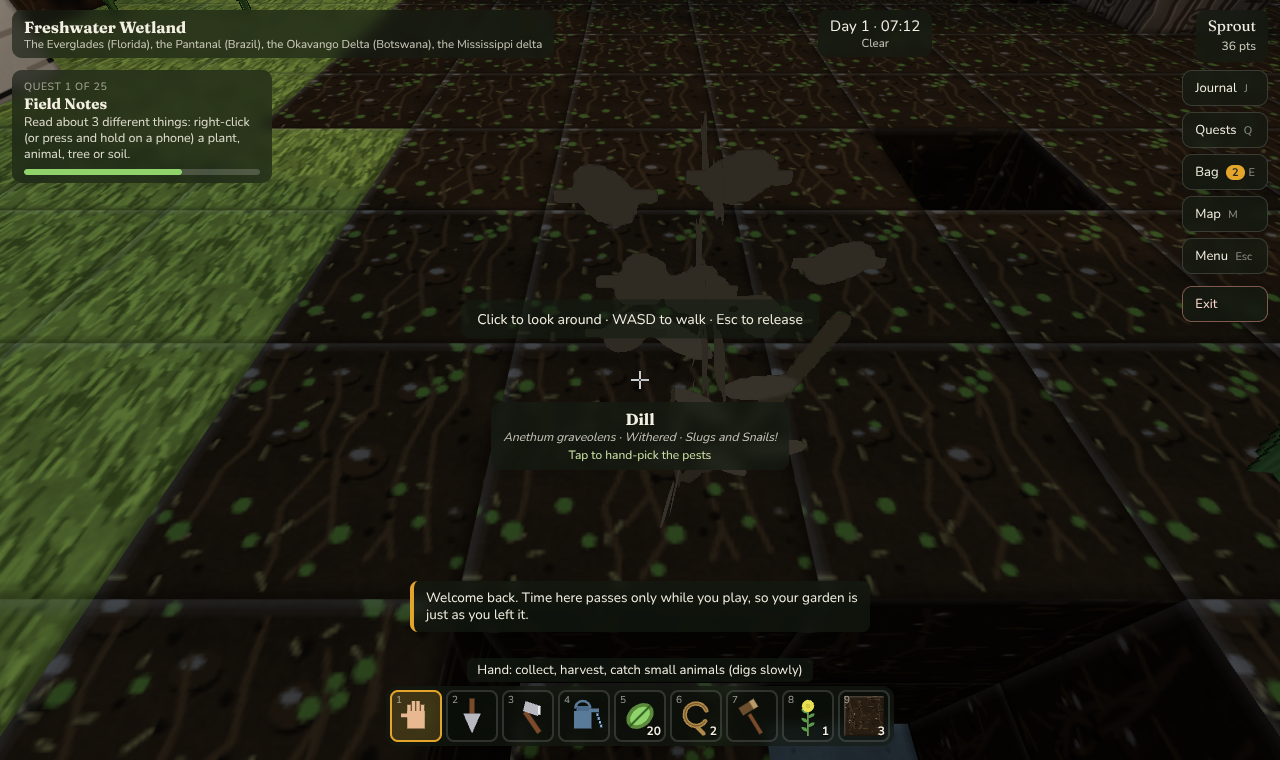
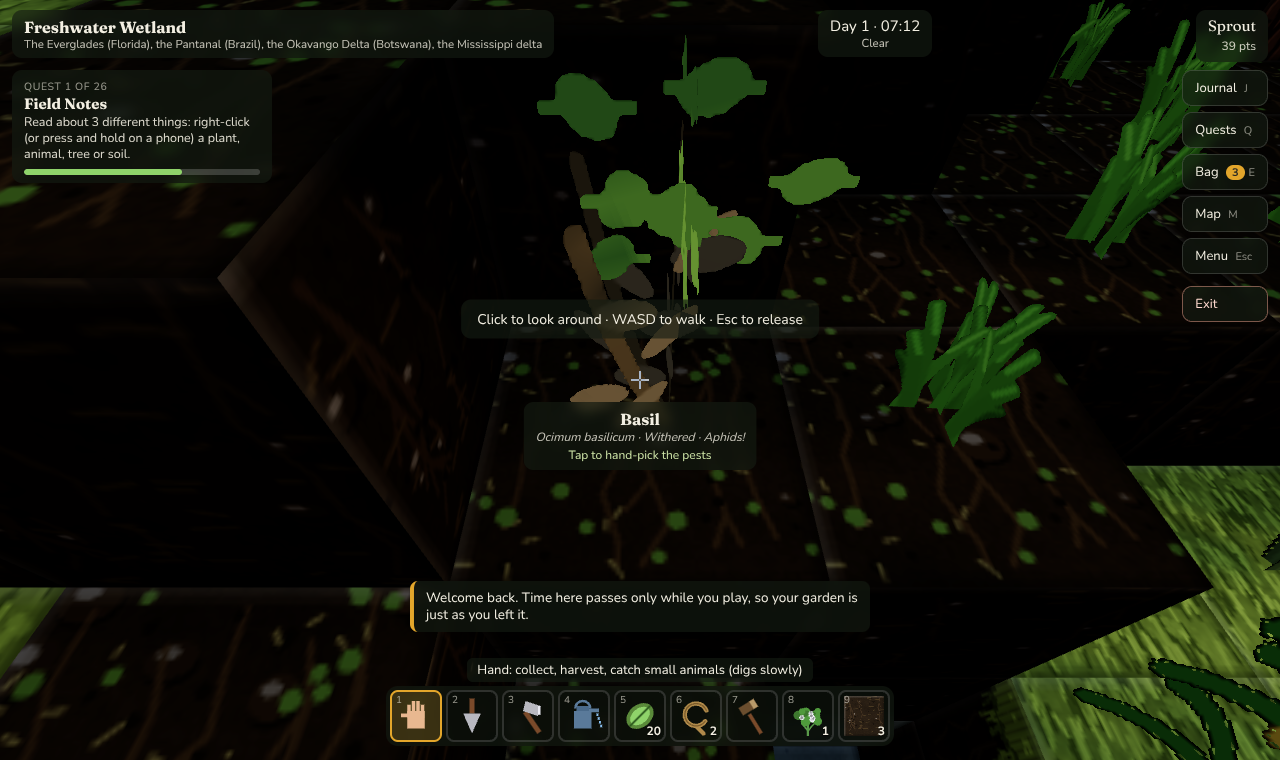
Botany World: ocean wrap-around, living vegetation and atmosphere
- Renamed the game to Botany World (title, start screen, menu, README)
  with the new banner art
- The ocean wraps around: sail or swim past any edge of the map and you
  arrive on the far side; open sea stretches to the horizon beyond the
  edges; new "Around the World" quest on how seeds cross oceans
- 3D grass tufts on about half of all grass tops, coloured by region;
  plants are three crossed quads with their own yaw and size; plants
  and tufts sway in the wind (shadows sway with them)
- Per-block colour variation on grass tops and leaves
- Water surface normals ripple for sun glints; sun glow sprite; fluffy
  multi-part clouds merged into one mesh; filmic tone mapping with the
  sky dome tone mapped to match

Claude-Session: https://claude.ai/code/session_019QgsiEiaSj21K5LUM6uzhx

diff --git a/js/main.js b/js/main.js
@@ -4,7 +4,7 @@ BC.Game = class Game {
   constructor() {
     this.canvas = document.getElementById('gl');
     this.renderer = new THREE.WebGLRenderer({ canvas: this.canvas, antialias: (window.devicePixelRatio || 1) < 1.5, powerPreference: 'high-performance' });
-    this.renderer.outputColorSpace = THREE.SRGBColorSpace;
+    this.renderer.outputColorSpace = THREE.SRGBColorSpace; this.renderer.toneMapping = THREE.ACESFilmicToneMapping; this.renderer.toneMappingExposure = 1.12;
     this.scene = new THREE.Scene(); this.camera = new THREE.PerspectiveCamera(72, 1, 0.1, 260);
     this.player = new BC.Player(this); this.ui = new BC.UI(this); this.animals = new BC.Animals(this); this.npcs = new BC.NPCs(this); this.boats = new BC.Boats(this); this.net = new BC.Net(this); this.hires = []; this.fishing = null;
     this.chunks = new Map(); this.time = { t: 0, day: 1, dayFrac: 0.3 }; this.weather = { raining: false, timer: 90 };
@@ -26,24 +26,28 @@ BC.Game = class Game {
     const atlas = BC.Atlas.build(); this.atlas = atlas.texture; try { this.atlas.anisotropy = Math.min(8, this.renderer.capabilities.getMaxAnisotropy()); } catch (e) { }
     this.matSolid = new THREE.MeshLambertMaterial({ map: this.atlas, vertexColors: true });
     this.matPlant = new THREE.MeshLambertMaterial({ map: this.atlas, vertexColors: true, alphaTest: 0.5, side: THREE.DoubleSide });
+    // wind: the top vertices of plants and grass tufts lean with slow overlapping waves
+    const wind = mat => { mat.onBeforeCompile = sh => { sh.uniforms.uTime = { value: 0 }; mat.userData.shader = sh; sh.vertexShader = sh.vertexShader.replace('#include <common>', '#include <common>\nattribute float sway; uniform float uTime;').replace('#include <begin_vertex>', '#include <begin_vertex>\n{ float w = sway * (0.75 + 0.25 * sin(uTime * 0.7 + position.z * 0.05)); transformed.x += w * (sin(uTime * 1.7 + position.x * 0.8 + position.z * 0.6) * 0.07 + sin(uTime * 3.1 + position.z * 1.3) * 0.025); transformed.z += w * cos(uTime * 1.3 + position.x * 0.5 + position.z * 0.9) * 0.05; }'); }; };
+    wind(this.matPlant);
     this.waterTex = BC.Atlas.waterTexture(); this.matWater = new THREE.MeshPhongMaterial({ map: this.waterTex, vertexColors: true, transparent: true, opacity: 0.66, depthWrite: false, specular: new THREE.Color(0x9fc3e6), shininess: 120 });
     this.matWater.onBeforeCompile = sh => { sh.uniforms.uTime = { value: 0 }; sh.uniforms.uSky = { value: new THREE.Color(0x8fc4ea) }; this.matWater.userData.shader = sh;
-      sh.vertexShader = sh.vertexShader.replace('#include <common>', '#include <common>\nattribute vec2 flow; uniform float uTime; varying vec2 vFlow;').replace('#include <uv_vertex>', '#include <uv_vertex>\nvMapUv += flow * uTime * 0.35; vFlow = flow;').replace('#include <begin_vertex>', '#include <begin_vertex>\ntransformed.y += sin(position.x * 1.9 + uTime * 2.2 + position.z * 1.3) * 0.035 * (1.0 + length(flow) * 2.0);');
-      sh.fragmentShader = sh.fragmentShader.replace('#include <common>', '#include <common>\nvarying vec2 vFlow; uniform vec3 uSky;').replace('#include <dithering_fragment>', '#include <dithering_fragment>\ngl_FragColor.rgb += vec3(0.08, 0.1, 0.1) * min(1.0, length(vFlow) * 1.2);\n{ vec3 vd = normalize(vViewPosition); float fr = pow(1.0 - clamp(dot(vd, normalize(vNormal)), 0.0, 1.0), 2.5); gl_FragColor.rgb = mix(gl_FragColor.rgb, uSky, fr * 0.6); gl_FragColor.a = mix(gl_FragColor.a, 0.97, fr * 0.85); }'); };
+      sh.vertexShader = sh.vertexShader.replace('#include <common>', '#include <common>\nattribute vec2 flow; uniform float uTime; varying vec2 vFlow; varying vec3 vWp;').replace('#include <uv_vertex>', '#include <uv_vertex>\nvMapUv += flow * uTime * 0.35; vFlow = flow;').replace('#include <begin_vertex>', '#include <begin_vertex>\ntransformed.y += sin(position.x * 1.9 + uTime * 2.2 + position.z * 1.3) * 0.035 * (1.0 + length(flow) * 2.0); vWp = (modelMatrix * vec4(transformed, 1.0)).xyz;');
+      sh.fragmentShader = sh.fragmentShader.replace('#include <common>', '#include <common>\nvarying vec2 vFlow; varying vec3 vWp; uniform vec3 uSky; uniform float uTime;').replace('#include <normal_fragment_begin>', '#include <normal_fragment_begin>\nnormal = normalize(normal + vec3(sin(vWp.x * 2.3 + uTime * 1.6) * 0.07 + sin(vWp.z * 3.1 - uTime * 1.1) * 0.05, 0.0, cos(vWp.z * 2.1 + uTime * 1.3) * 0.07 + cos(vWp.x * 2.9 + uTime * 0.9) * 0.05));').replace('#include <dithering_fragment>', '#include <dithering_fragment>\ngl_FragColor.rgb += vec3(0.08, 0.1, 0.1) * min(1.0, length(vFlow) * 1.2);\n{ vec3 vd = normalize(vViewPosition); float fr = pow(1.0 - clamp(dot(vd, normalize(vNormal)), 0.0, 1.0), 2.5); gl_FragColor.rgb = mix(gl_FragColor.rgb, uSky, fr * 0.6); gl_FragColor.a = mix(gl_FragColor.a, 0.97, fr * 0.85); }'); };
     this.hemi = new THREE.HemisphereLight(0xc6dcff, 0x7a6244, 1.05); this.scene.add(this.hemi);
     this.sun = new THREE.DirectionalLight(0xffe6c2, 1.35); this.scene.add(this.sun); this.scene.add(this.sun.target);
     this.scene.fog = new THREE.Fog(0x8fc4ea, 44, 118); this.scene.background = new THREE.Color(0x8fc4ea);
     // gradient sky dome that follows the camera: haze at the horizon, deeper blue overhead
-    this.skyMat = new THREE.ShaderMaterial({ uniforms: { top: { value: new THREE.Color(0x3a74d0) }, bottom: { value: new THREE.Color(0x8fc4ea) } }, vertexShader: 'varying vec3 vW; void main(){ vW = normalize(position); gl_Position = projectionMatrix * modelViewMatrix * vec4(position, 1.0); }', fragmentShader: 'uniform vec3 top; uniform vec3 bottom; varying vec3 vW; void main(){ float t = smoothstep(-0.03, 0.55, vW.y); gl_FragColor = vec4(mix(bottom, top, t), 1.0);\n#include <colorspace_fragment>\n}', side: THREE.BackSide, depthWrite: false, fog: false });
+    this.skyMat = new THREE.ShaderMaterial({ uniforms: { top: { value: new THREE.Color(0x3a74d0) }, bottom: { value: new THREE.Color(0x8fc4ea) } }, vertexShader: 'varying vec3 vW; void main(){ vW = normalize(position); gl_Position = projectionMatrix * modelViewMatrix * vec4(position, 1.0); }', fragmentShader: 'uniform vec3 top; uniform vec3 bottom; varying vec3 vW; void main(){ float t = smoothstep(-0.03, 0.55, vW.y); gl_FragColor = vec4(mix(bottom, top, t), 1.0);\n#include <tonemapping_fragment>\n#include <colorspace_fragment>\n}', side: THREE.BackSide, depthWrite: false, fog: false });
     this.skyDome = new THREE.Mesh(new THREE.SphereGeometry(232, 24, 12), this.skyMat); this.skyDome.renderOrder = -10; this.skyDome.frustumCulled = false; this.scene.add(this.skyDome);
     // real sun shadows on desktop; phones keep the baked ambient occlusion only
     BC.PERK = this.character.id;
     this.shadows = !this.player.touch && (navigator.hardwareConcurrency || 4) >= 4; BC.SHADOWS = this.shadows;
-    if (this.shadows) { this.renderer.shadowMap.enabled = true; this.renderer.shadowMap.type = THREE.PCFSoftShadowMap; this.sun.castShadow = true; this.sun.shadow.mapSize.set(2048, 2048); const sc = this.sun.shadow.camera; sc.left = -46; sc.right = 46; sc.top = 46; sc.bottom = -46; sc.near = 1; sc.far = 330; sc.updateProjectionMatrix(); this.sun.shadow.bias = -0.0004; this.sun.shadow.normalBias = 0.05; this.depthPlant = new THREE.MeshDepthMaterial({ depthPacking: THREE.RGBADepthPacking, map: this.atlas, alphaTest: 0.5 }); }
-    this.sunMesh = new THREE.Mesh(new THREE.SphereGeometry(4, 12, 12), new THREE.MeshBasicMaterial({ color: 0xfff1c0, fog: false })); this.scene.add(this.sunMesh);
+    if (this.shadows) { this.renderer.shadowMap.enabled = true; this.renderer.shadowMap.type = THREE.PCFSoftShadowMap; this.sun.castShadow = true; this.sun.shadow.mapSize.set(2048, 2048); const sc = this.sun.shadow.camera; sc.left = -46; sc.right = 46; sc.top = 46; sc.bottom = -46; sc.near = 1; sc.far = 330; sc.updateProjectionMatrix(); this.sun.shadow.bias = -0.0004; this.sun.shadow.normalBias = 0.05; this.depthPlant = new THREE.MeshDepthMaterial({ depthPacking: THREE.RGBADepthPacking, map: this.atlas, alphaTest: 0.5 }); wind(this.depthPlant); }
+    this.sunMesh = new THREE.Mesh(new THREE.SphereGeometry(4, 12, 12), new THREE.MeshBasicMaterial({ color: 0xfff6d8, fog: false })); this.scene.add(this.sunMesh);
+    { const c = document.createElement('canvas'); c.width = c.height = 128; const g = c.getContext('2d'); const gr = g.createRadialGradient(64, 64, 4, 64, 64, 64); gr.addColorStop(0, 'rgba(255,244,210,0.95)'); gr.addColorStop(0.25, 'rgba(255,220,150,0.45)'); gr.addColorStop(0.6, 'rgba(255,190,110,0.12)'); gr.addColorStop(1, 'rgba(255,170,90,0)'); g.fillStyle = gr; g.fillRect(0, 0, 128, 128); const t = new THREE.CanvasTexture(c); t.colorSpace = THREE.SRGBColorSpace; this.sunGlow = new THREE.Sprite(new THREE.SpriteMaterial({ map: t, blending: THREE.AdditiveBlending, depthWrite: false, depthTest: false, fog: false, transparent: true })); this.sunGlow.scale.set(60, 60, 1); this.sunGlow.renderOrder = -5; this.scene.add(this.sunGlow); }
     this.moonMesh = new THREE.Mesh(new THREE.SphereGeometry(2.5, 12, 12), new THREE.MeshBasicMaterial({ color: 0xdde6f5, fog: false })); this.scene.add(this.moonMesh);
-    this.clouds = new THREE.Group(); const cm = new THREE.MeshBasicMaterial({ color: 0xffffff, transparent: true, opacity: 0.8 });
-    for (let i = 0; i < 26; i++) { const g = new THREE.BoxGeometry(6 + Math.random() * 14, 1.2, 4 + Math.random() * 8); const m = new THREE.Mesh(g, cm); m.position.set(Math.random() * 300 - 40, 46 + Math.random() * 6, Math.random() * 300 - 40); this.clouds.add(m); } this.scene.add(this.clouds);
+    this.clouds = new THREE.Group(); const cm = new THREE.MeshLambertMaterial({ color: 0xffffff, transparent: true, opacity: 0.88, emissive: 0x334455, emissiveIntensity: 0.35 });
+    { const parts = []; for (let i = 0; i < 22; i++) { const cx = Math.random() * 300 - 40, cy = 46 + Math.random() * 6, cz = Math.random() * 300 - 40; const n = 3 + Math.floor(Math.random() * 3); for (let k = 0; k < n; k++) { const w = 5 + Math.random() * 10, d = 4 + Math.random() * 7, h = 1.2 + Math.random() * 1.6; const g = new THREE.BoxGeometry(w, h, d); g.setAttribute('color', new THREE.Float32BufferAttribute(new Array(g.attributes.position.count * 3).fill(1), 3)); g.translate(cx + (Math.random() - 0.5) * 12, cy + (k === 0 ? 0 : Math.random() * 1.6), cz + (Math.random() - 0.5) * 8); parts.push(g); } } const merged = BC.mergeGeometries(parts); const m = new THREE.Mesh(merged, cm); m.frustumCulled = false; this.clouds.add(m); } this.scene.add(this.clouds);
     const rp = new Float32Array(900 * 3); for (let i = 0; i < 900; i++) { rp[i * 3] = Math.random() * 30 - 15; rp[i * 3 + 1] = Math.random() * 20; rp[i * 3 + 2] = Math.random() * 30 - 15; }
     const rg = new THREE.BufferGeometry(); rg.setAttribute('position', new THREE.BufferAttribute(rp, 3)); this.rain = new THREE.Points(rg, new THREE.PointsMaterial({ color: 0xbfd8ff, size: 0.12, transparent: true, opacity: 0.7 })); this.rain.visible = false; this.scene.add(this.rain);
   }
@@ -60,7 +64,14 @@ BC.Game = class Game {
     const loading = document.getElementById('loading'); loading.hidden = false;
     setTimeout(() => { this.world = new BC.World(this.seed, this.worldW, this.worldD); this.world.generate(); this.hookWorld(); this.clearChunks(); this.clearAnimals(); loading.hidden = true; then(); }, 30);
   }
-  hookWorld() {
+  // the open sea beyond the map: four water planes out to the horizon, so the world looks like an island in an ocean that wraps around
+  buildOcean() {
+    if (this.ocean) { this.ocean.forEach(m => { this.scene.remove(m); m.geometry.dispose(); }); } this.ocean = []; const w = this.world; const R = 460; const y = w.WL + 1 - 0.12;
+    const mk = (cx, cz, sx, sz) => { const g = new THREE.PlaneGeometry(sx, sz, 1, 1); g.rotateX(-Math.PI / 2); const uv = g.attributes.uv; for (let i = 0; i < uv.count; i++) uv.setXY(i, uv.getX(i) * sx, uv.getY(i) * sz); const n = g.attributes.position.count; g.setAttribute('color', new THREE.Float32BufferAttribute(new Array(n * 3).fill(0.96), 3)); g.setAttribute('flow', new THREE.Float32BufferAttribute(new Array(n * 2).fill(0.03), 2)); const m = new THREE.Mesh(g, this.matWater); m.position.set(cx, y, cz); m.frustumCulled = true; this.scene.add(m); this.ocean.push(m); };
+    mk(-R / 2, w.D / 2, R, w.D + 2 * R); mk(w.W + R / 2, w.D / 2, R, w.D + 2 * R); mk(w.W / 2, -R / 2, w.W, R); mk(w.W / 2, w.D + R / 2, w.W, R);
+  }
+  onWrap() { const st = this.stats; st.wrapped = (st.wrapped || 0) + 1; this.toast(st.wrapped === 1 ? 'You crossed the ocean and came out on the far side of the world! The sea wraps all the way around.' : 'Around the world again.', 'good'); }
+  hookWorld() { this.buildOcean();
     const w = this.world;
     w.onBlock = (x, y, z, id) => { if (this.mode === 'shared') this.net.send('block', { x, y, z, id }); };
     w.onBlocks = (list, tid) => { if (this.mode === 'shared') this.net.send('blocks', { list, tid }); };
@@ -215,7 +226,7 @@ BC.Game = class Game {
     this.boats.update(this.ui.modalOpen() ? 0 : dt); this.player.update(this.ui.modalOpen() ? 0 : dt); this.tickFishing(dt); this.ui.updateWaterHUD();
     if (this.holdPrimary && !this.ui.modalOpen() && now - (this.lastPrimary || 0) > 320) { const it = this.cur(); if (this.isDigTool(it)) { const h = this.raycast(); if (h && h.type === 'block') this.primary(); } } if (auth) this.animals.update(dt); else this.animals.updateGuest(dt);
     this.npcs.update(dt); if (auth) { this.tickHives(dt); this.tickRespawns(); this.tickHires(dt); this.tickBlocks(dt); }
-    { const sh = this.matWater.userData.shader; if (sh) sh.uniforms.uTime.value = now / 1000; } if (this.world.waterQueue.length) this.world.tickWater(120);
+    { const sh = this.matWater.userData.shader; if (sh) sh.uniforms.uTime.value = now / 1000; const ps = this.matPlant.userData.shader; if (ps) ps.uniforms.uTime.value = now / 1000; const ds = this.depthPlant && this.depthPlant.userData.shader; if (ds) ds.uniforms.uTime.value = now / 1000; } if (this.world.waterQueue.length) this.world.tickWater(120);
     this.time.t += dt; this.time.dayFrac = (this.time.t / this.DAY) % 1; this.time.day = Math.floor(this.time.t / this.DAY) + 1;
     if (this.ffTimer > 0) { this.ffTimer -= dt; if (this.ffTimer <= 0) { this.growthMult = 1; this.toast('Fast-forward finished.', ''); } }
     this.simAcc += dt; if (this.simAcc >= 0.5) { if (auth) { BC.Sim.tick(this, this.simAcc); this.updateWeather(this.simAcc); } this.simAcc = 0; }
@@ -238,6 +249,7 @@ BC.Game = class Game {
     { const ov = this.ui.$('underwater'); const show = under || (this.player.inWater && this.camera.position.y < this.world.waterSurface(Math.floor(this.player.pos.x), Math.floor(this.player.pos.z)) + 1); if (ov.hidden === show) ov.hidden = !show; }
     this.sun.intensity = 0.25 + day * (this.weather.raining ? 0.6 : 1.2); this.hemi.intensity = 0.42 + day * 0.78; this.sun.color.setHex(elev < 0.3 ? 0xffc890 : 0xffe6c2);
     const p = this.player.pos; const sx = Math.cos(ang) * 120, sy = Math.sin(ang) * 120; this.sun.position.set(p.x + sx, p.y + Math.max(sy, 10), p.z + 40); this.sun.target.position.set(p.x, p.y, p.z);
+    if (this.sunGlow) { this.sunGlow.position.set(p.x + sx * 1.55, p.y + sy * 1.55, p.z + 58); this.sunGlow.visible = elev > -0.12 && !under; this.sunGlow.material.opacity = this.weather.raining ? 0.25 : 0.55 + 0.45 * BC.util.clamp(1 - elev * 2.5, 0, 1); }
     this.sunMesh.position.set(p.x + sx * 1.6, p.y + sy * 1.6, p.z + 60); this.moonMesh.position.set(p.x - sx * 1.6, p.y - sy * 1.6, p.z - 60); this.sunMesh.visible = elev > -0.1; this.moonMesh.visible = elev < 0.1;
     this.clouds.position.x = (this.time.t * 0.4) % 120 - 60; this.clouds.position.z = p.z - 150 + ((p.z + 150) % 1);
     if (this.rain.visible) { const a = this.rain.geometry.attributes.position; for (let i = 0; i < a.count; i++) { let y = a.getY(i) - 0.45; if (y < 0) y = 20; a.setY(i, y); } a.needsUpdate = true; this.rain.position.set(p.x, p.y, p.z); }
@@ -733,4 +745,4 @@ BC.Game = class Game {
     return true;
   }
 };
-window.addEventListener('DOMContentLoaded', () => { try { window.game = new BC.Game(); } catch (e) { console.error(e); const el = document.getElementById('fatal'); el.hidden = false; el.textContent = 'Botany Craft could not start: ' + e.message + '. This browser may not support WebGL.'; } });
+window.addEventListener('DOMContentLoaded', () => { try { window.game = new BC.Game(); } catch (e) { console.error(e); const el = document.getElementById('fatal'); el.hidden = false; el.textContent = 'Botany World could not start: ' + e.message + '. This browser may not support WebGL.'; } });

diff --git a/js/mesher.js b/js/mesher.js
@@ -25,10 +25,11 @@ BC.Mesher = (function () {
   class Builder {
     constructor() { this.pos = []; this.nor = []; this.uv = []; this.col = []; this.idx = []; this.n = 0; this.flow = null; }
     setFlow(fx, fz) { if (!this.flow) this.flow = []; this.pendingFlow = [fx, fz]; }
-    quad(verts, normal, uvr, shades, tint) { // verts: 4 [x,y,z]; shades: 4 floats; uvr [u0,v0,u1,v1]
+    quad(verts, normal, uvr, shades, tint, swayTop) { // verts: 4 [x,y,z]; shades: 4 floats; uvr [u0,v0,u1,v1]; swayTop: top two vertices move in the wind
       const [u0, v0, u1, v1] = uvr; const uvs = [[u0, v1], [u1, v1], [u1, v0], [u0, v0]];
       for (let i = 0; i < 4; i++) { this.pos.push(verts[i][0], verts[i][1], verts[i][2]); this.nor.push(normal[0], normal[1], normal[2]); this.uv.push(uvs[i][0], uvs[i][1]); const s = shades[i]; this.col.push(s * (tint ? tint[0] : 1), s * (tint ? tint[1] : 1), s * (tint ? tint[2] : 1)); }
       if (this.flow) { const f = this.pendingFlow || [0, 0]; for (let i = 0; i < 4; i++) this.flow.push(f[0], f[1]); }
+      if (this.sway) this.sway.push(0, 0, swayTop ? 1 : 0, swayTop ? 1 : 0);
       const b = this.n; if (shades[0] + shades[2] > shades[1] + shades[3]) this.idx.push(b, b + 1, b + 2, b, b + 2, b + 3); else this.idx.push(b + 1, b + 2, b + 3, b + 1, b + 3, b);
       this.n += 4;
     }
@@ -40,13 +41,13 @@ BC.Mesher = (function () {
     geometry() {
       if (!this.n) return null; const g = new THREE.BufferGeometry();
       g.setAttribute('position', new THREE.Float32BufferAttribute(this.pos, 3)); g.setAttribute('normal', new THREE.Float32BufferAttribute(this.nor, 3));
-      g.setAttribute('uv', new THREE.Float32BufferAttribute(this.uv, 2)); g.setAttribute('color', new THREE.Float32BufferAttribute(this.col, 3)); if (this.flow) g.setAttribute('flow', new THREE.Float32BufferAttribute(this.flow, 2));
+      g.setAttribute('uv', new THREE.Float32BufferAttribute(this.uv, 2)); g.setAttribute('color', new THREE.Float32BufferAttribute(this.col, 3)); if (this.flow) g.setAttribute('flow', new THREE.Float32BufferAttribute(this.flow, 2)); if (this.sway) g.setAttribute('sway', new THREE.Float32BufferAttribute(this.sway, 1));
       g.setIndex(this.idx); g.computeBoundingSphere(); return g;
     }
   }
 
   function buildChunk(world, cx, cz) {
-    const solid = new Builder(), water = new Builder(), cutout = new Builder(); water.flow = [];
+    const solid = new Builder(), water = new Builder(), cutout = new Builder(); water.flow = []; cutout.sway = []; const TUFT = BC.Atlas.has('tuft') ? BC.Atlas.uv('tuft') : null; const GREEN = [0x5c / 255, 0xa2 / 255, 0x38 / 255];
     const x0 = cx * 16, z0 = cz * 16, x1 = Math.min(world.W, x0 + 16), z1 = Math.min(world.D, z0 + 16);
     for (let z = z0; z < z1; z++) for (let x = x0; x < x1; x++) for (let y = 0; y < world.H; y++) {
       const id = world.blocks[world.idx(x, y, z)]; if (id === 0) continue; const b = BC.BLOCKS[id]; if (!b) continue;
@@ -70,8 +71,17 @@ BC.Mesher = (function () {
         const tile = b.tex[f.t]; const uvr = BC.Atlas.uv(tile);
         const shades = [0, 1, 2, 3].map(vi => f.s * AO_SHADE[aoFor(world, x, y, z, f, vi)]);
         // subtle biome tint on grass tops
-        let tint = null; if (b.grassTop && fi === 0) { const bm = BC.BIOMES[world.biomeAt(x, z)]; const m = world.moisture[x + z * world.W]; const k = 0.92 + m * 0.1; tint = [k, k * (bm.id === 'desert' ? 1 : 1.02), k * 0.98]; }
+        let tint = null; const hv = BC.util.hash2(x * 3 + y, z * 5 + y, 31);
+        if (b.grassTop && fi === 0) { const bm = BC.BIOMES[world.biomeAt(x, z)]; const m = world.moisture[x + z * world.W]; const k = (0.92 + m * 0.1) * (0.95 + hv * 0.1); tint = [k, k * (bm.id === 'desert' ? 1 : 1.02), k * 0.98]; }
+        else if (b.leaves) { const k = 0.9 + hv * 0.2; tint = [k, k * (0.98 + hv * 0.04), k * 0.95]; }
         solid.quad(f.v.map(v => [x + v[0], y + v[1], z + v[2]]), f.n, uvr, shades, tint);
+        // grass tufts: a short crossed sprite on about half of all open grass tops, coloured by the region's grass
+        if (TUFT && b.grassTop && fi === 0 && world.get(x, y + 1, z) === 0 && !world.plantAt(x, y + 1, z) && hv < 0.55) {
+          const bm = BC.BIOMES[world.biomeAt(x, z)]; const gc = bm.grass ? bm.grass[0] : 0x5ca238; const tk = [Math.min(1.4, ((gc >> 16) & 255) / 255 / GREEN[0]), Math.min(1.4, ((gc >> 8) & 255) / 255 / GREEN[1]), Math.min(1.4, (gc & 255) / 255 / GREEN[2])];
+          const a = hv * 6.283, rr = 0.42 + BC.util.hash2(z, x, 17) * 0.1, hh = 0.5 + BC.util.hash2(x, z, 19) * 0.25; const ox = x + 0.5 + (BC.util.hash2(x, z, 23) - 0.5) * 0.3, oz = z + 0.5 + (BC.util.hash2(z, x, 29) - 0.5) * 0.3, c = Math.cos(a) * rr, s = Math.sin(a) * rr; const sh = (shades[0] + shades[1] + shades[2] + shades[3]) / 4; const ts = [sh, sh, sh * 1.08, sh * 1.08];
+          cutout.quad([[ox - c, y + 1, oz - s], [ox + c, y + 1, oz + s], [ox + c, y + 1 + hh, oz + s], [ox - c, y + 1 + hh, oz - s]], [-s, 0, c], TUFT, ts, tk, true);
+          cutout.quad([[ox + s, y + 1, oz - c], [ox - s, y + 1, oz + c], [ox - s, y + 1 + hh, oz + c], [ox + s, y + 1 + hh, oz - c]], [c, 0, s], TUFT, ts, tk, true);
+        }
       }
     }
     return { solid: solid.geometry(), water: water.geometry(), cutout: cutout.geometry() };
@@ -84,7 +94,7 @@ BC.Mesher = (function () {
     return p.id + '_' + stage;
   }
   function buildPlants(world, cx, cz) {
-    const b = new Builder(); const x0 = cx * 16, z0 = cz * 16;
+    const b = new Builder(); b.sway = []; const x0 = cx * 16, z0 = cz * 16;
     world.plants.forEach(p => {
       if (p.x < x0 || p.x >= x0 + 16 || p.z < z0 || p.z >= z0 + 16) return;
       const def = BC.PLANT_BY_ID[p.id]; const uvr = BC.Atlas.uv(plantTile(p));
@@ -92,10 +102,9 @@ BC.Mesher = (function () {
       const light = 0.75 + 0.25 * world.lightAt(p.x, p.y, p.z); const sh = [light, light, light * 1.05, light * 1.05];
       if (def && def.floating) { const y = p.y + 0.9; const s = 0.5 * (p.progress >= 1 ? 1 : 0.7); b.quad([[ox - s, y, oz + s], [ox + s, y, oz + s], [ox + s, y, oz - s], [ox - s, y, oz - s]], [0, 1, 0], uvr, [1, 1, 1, 1]); return; }
       const tall = def && (def.tall || def.form === 'corn' || def.form === 'banana' || def.form === 'cattail') ? 1.5 : 1.0; const scale = tall; const y = p.y + (def && def.water === 'aquatic' ? -0.05 : 0);
-      const r = 0.5 * (p.id.startsWith('tree:') ? 0.8 : 1); const a = (h - 0.5) * 0.6;
-      const c = Math.cos(a) * r, s = Math.sin(a) * r;
-      b.quad([[ox - c, y, oz - s], [ox + c, y, oz + s], [ox + c, y + scale, oz + s], [ox - c, y + scale, oz - s]], [-s, 0, c], uvr, sh);
-      b.quad([[ox + s, y, oz - c], [ox - s, y, oz + c], [ox - s, y + scale, oz + c], [ox + s, y + scale, oz - c]], [c, 0, s], uvr, sh);
+      const r = 0.5 * (p.id.startsWith('tree:') ? 0.8 : 1) * (0.92 + BC.util.hash2(p.x, p.z, 11) * 0.16); const a = h * 3.1416; const hgt = scale * (0.92 + BC.util.hash2(p.z, p.x, 13) * 0.16);
+      // three crossed quads at 60 degrees, each with its own yaw, so plants read as round from every side and sway in the wind
+      for (let k = 0; k < 3; k++) { const ang = a + k * 1.0472; const c = Math.cos(ang) * r, s = Math.sin(ang) * r; b.quad([[ox - c, y, oz - s], [ox + c, y, oz + s], [ox + c, y + hgt, oz + s], [ox - c, y + hgt, oz - s]], [-s, 0, c], uvr, sh, null, !(def && def.floating)); }
       if (p.pest && !p.wild) { const ps = BC.INSECT_BY_ID[p.pest.id]; const col = new THREE.Color(ps ? ps.color : '#ffffff'); const t = [col.r, col.g, col.b]; const pu = BC.Atlas.uv('pest'); const r2 = 0.42 * (0.5 + 0.5 * p.pest.level); const y2 = y + scale * 0.35; b.quad([[ox - r2, y2, oz], [ox + r2, y2, oz], [ox + r2, y2 + r2 * 2, oz], [ox - r2, y2 + r2 * 2, oz]], [0, 0, 1], pu, [1, 1, 1, 1], t); b.quad([[ox, y2, oz - r2], [ox, y2, oz + r2], [ox, y2 + r2 * 2, oz + r2], [ox, y2 + r2 * 2, oz - r2]], [1, 0, 0], pu, [1, 1, 1, 1], t); }
       if ((p.shaded || p.frostCover) && !p.wild) { const cu = BC.Atlas.uv(p.shaded ? 'bathouse' : 'straw_face'); const yc = y + scale * 0.95; const tn = p.shaded ? [0.5, 0.5, 0.55] : [1.7, 1.7, 1.7]; b.quad([[ox - 0.5, yc, oz + 0.5], [ox + 0.5, yc, oz + 0.5], [ox + 0.5, yc, oz - 0.5], [ox - 0.5, yc, oz - 0.5]], [0, 1, 0], cu, [1, 1, 1, 1], tn); }
       if (p.covered && !p.wild) { const cu = BC.Atlas.uv('trellis'); const yc = y + scale * 0.9; b.quad([[ox - 0.5, yc, oz + 0.5], [ox + 0.5, yc, oz + 0.5], [ox + 0.5, yc, oz - 0.5], [ox - 0.5, yc, oz - 0.5]], [0, 1, 0], cu, [1, 1, 1, 1], [1.6, 1.6, 1.6]); }

diff --git a/js/ui.js b/js/ui.js
@@ -324,7 +324,7 @@ BC.UI = class UI {
     const g = this.game;
     const shared = g.mode === 'shared'; const names = shared ? (g.net.online || []).map(p => p.name + (p.key === g.net.hostKey ? ' (host)' : '')).join(', ') : '';
     const info = shared ? `<p class="teach">Shared world <b>${this.esc(g.net.creds.world)}</b>. Online now: ${this.esc(names || 'just you')}. Anyone with the world name and PIN can join from any device.${g.net.isHost ? ' You are hosting: plants grow and animals move on your device and everyone else sees them.' : ''}</p>` : '';
-    this.openModal(`<button class="close" aria-label="Close">×</button><h2>Botany Craft</h2>${info}<div class="menu quick"><button id="m-journal">Journal</button><button id="m-quests">Quests</button><button id="m-map">Map</button></div><div class="menu"><button id="m-char">Character: ${this.esc(BC.CHARACTER_BY_ID[g.character.id].name)} · change style</button><button id="m-exit" class="primary">Save and exit game</button><button id="m-ff" ${shared && !g.net.isHost ? 'disabled' : ''}>${g.growthMult > 1 ? 'Stop fast-forward' : 'Fast-forward growth (×5 for 2 min)' + (shared && !g.net.isHost ? ' (host only)' : '')}</button><button id="m-save">Save game</button><button id="m-help">Controls & how to play</button><button id="m-dir">Shared worlds: who is online</button>${shared ? '<button id="m-leave">Leave shared world</button><button id="m-delete" class="danger">Delete this shared world for everyone</button>' : ''}<button id="m-new" class="danger">${shared ? 'Forget this shared world on this device' : 'Start a new world'}</button></div><p class="small">${shared ? 'Progress saves to the cloud every 30 seconds. Your journal and inventory are yours; the land and plants are shared.' : 'Progress saves automatically every 30 seconds in this browser.'}</p>`, 'journal');
+    this.openModal(`<button class="close" aria-label="Close">×</button><h2>Botany World</h2>${info}<div class="menu quick"><button id="m-journal">Journal</button><button id="m-quests">Quests</button><button id="m-map">Map</button></div><div class="menu"><button id="m-char">Character: ${this.esc(BC.CHARACTER_BY_ID[g.character.id].name)} · change style</button><button id="m-exit" class="primary">Save and exit game</button><button id="m-ff" ${shared && !g.net.isHost ? 'disabled' : ''}>${g.growthMult > 1 ? 'Stop fast-forward' : 'Fast-forward growth (×5 for 2 min)' + (shared && !g.net.isHost ? ' (host only)' : '')}</button><button id="m-save">Save game</button><button id="m-help">Controls & how to play</button><button id="m-dir">Shared worlds: who is online</button>${shared ? '<button id="m-leave">Leave shared world</button><button id="m-delete" class="danger">Delete this shared world for everyone</button>' : ''}<button id="m-new" class="danger">${shared ? 'Forget this shared world on this device' : 'Start a new world'}</button></div><p class="small">${shared ? 'Progress saves to the cloud every 30 seconds. Your journal and inventory are yours; the land and plants are shared.' : 'Progress saves automatically every 30 seconds in this browser.'}</p>`, 'journal');
     this.$('m-exit').onclick = () => this.confirmExit(); this.$('m-ff').onclick = () => { g.toggleFastForward(); this.closeModal(); }; this.$('m-save').onclick = () => { Promise.resolve(g.save()).then(() => this.toast('Game saved.', 'good')); this.closeModal(); };
     if (shared) { this.$('m-leave').onclick = () => g.leaveShared(); this.$('m-delete').onclick = () => { const w = g.net.creds.display || g.net.creds.world; const others = (g.net.online || []).filter(p => p.key !== g.net.myKey).map(p => p.name); this.openModal(`<h2>Delete "${this.esc(w)}"?</h2><p class="teach">This erases the world, its plants and every player's progress in it, for everyone. It cannot be undone.${others.length ? ' <b>' + this.esc(others.join(', ')) + ' ' + (others.length === 1 ? 'is' : 'are') + ' in it right now.</b>' : ''}</p><div class="menu"><button id="d-yes" class="danger">Yes, delete it for everyone</button><button id="d-no">Keep it</button></div>`, 'journal'); this.$('d-yes').onclick = () => { this.$('d-yes').disabled = true; this.$('d-yes').textContent = 'Deleting…'; g.deleteSharedWorld(); }; this.$('d-no').onclick = () => this.closeModal(); }; g.peers.forEach((pe, key) => { const b = document.createElement('button'); b.innerHTML = `<i class="dot" style="background:${this.esc(pe.color || '#ffd23b')}"></i> Go to ${this.esc(pe.name)}`; b.onclick = () => { this.closeModal(); g.goToPeer(key); }; this.modalCard.querySelector('.menu').insertBefore(b, this.$('m-ff')); }); const rc = document.createElement('button'); rc.textContent = g.net.live ? 'Live session: connected (reconnect)' : 'Reconnect live session' + (g.net.lastError ? ' (' + g.net.lastError + ')' : ''); rc.onclick = () => { this.closeModal(); g.reconnectLive(); }; this.modalCard.querySelector('.menu').insertBefore(rc, this.$('m-leave')); }
     this.$('m-journal').onclick = () => this.showJournal(); this.$('m-quests').onclick = () => this.showQuests(); this.$('m-map').onclick = () => this.showMap(); this.$('m-char').onclick = () => this.showCharacter();

diff --git a/index.html b/index.html
@@ -3,14 +3,14 @@
 <head>
 <meta charset="utf-8">
 <meta name="viewport" content="width=device-width, initial-scale=1, viewport-fit=cover, user-scalable=no">
-<title>Botany Craft</title>
+<title>Botany World</title>
 <meta name="description" content="A block world that teaches botany: explore six real Earth biomes, read the soil, gather seeds and grow native plants in the right place.">
 <meta name="theme-color" content="#142316">
 <link rel="icon" type="image/png" href="assets/favicon.png">
 <link rel="apple-touch-icon" href="assets/icon-192.png">
 <link rel="preconnect" href="https://fonts.googleapis.com"><link rel="preconnect" href="https://fonts.gstatic.com" crossorigin>
 <link rel="stylesheet" href="https://fonts.googleapis.com/css2?family=Fraunces:opsz,wght@9..144,400;9..144,600;9..144,700&family=Nunito:wght@400;600;700&display=swap">
-<link rel="stylesheet" href="css/style.css?v=1792137831">
+<link rel="stylesheet" href="css/style.css?v=1792138737">
 </head>
 <body>
 <div id="app">
@@ -49,8 +49,8 @@
   </div>
   <div id="start" class="screen">
     <div class="inner">
-      <img class="hero" src="assets/botany-craft-hero.jpg" alt="Botany Craft" width="1400" height="788">
-      <h1 class="visually-hidden">Botany Craft</h1>
+      <img class="hero" src="assets/botany-world-hero.jpg" alt="Botany World" width="1400" height="788">
+      <h1 class="visually-hidden">Botany World</h1>
       <p class="tagline">A world that teaches botany</p>
       <p class="lede">Walk out into a block world built from real Earth: cold north, hot south, dry west, wet east. Dig to read the soil, gather seeds from wild plants, and grow them where they belong. Every plant, tree, animal and soil you meet goes in your Field Journal.</p>
       <div id="continue-wrap" hidden><button id="btn-continue" class="primary">Continue your world</button><span class="small">or start somewhere new below</span></div>
@@ -79,33 +79,33 @@
 </div>
 <script src="https://cdnjs.cloudflare.com/ajax/libs/three.js/0.158.0/three.min.js"></script>
 <script src="https://cdn.jsdelivr.net/npm/@supabase/supabase-js@2.58.0/dist/umd/supabase.js"></script>
-<script src="js/util.js?v=1792137831"></script>
-<script src="js/config.js?v=1792137831"></script>
-<script src="js/net.js?v=1792137831"></script>
-<script src="js/data/soils.js?v=1792137831"></script>
-<script src="js/data/biomes.js?v=1792137831"></script>
-<script src="js/data/plants.js?v=1792137831"></script>
-<script src="js/data/trees.js?v=1792137831"></script>
-<script src="js/data/animals.js?v=1792137831"></script>
-<script src="js/data/quests.js?v=1792137831"></script>
-<script src="js/data/insects.js?v=1792137831"></script>
-<script src="js/data/ingredients.js?v=1792137831"></script>
-<script src="js/data/fish.js?v=1792137831"></script>
-<script src="js/data/npcs.js?v=1792137831"></script>
-<script src="js/data/characters.js?v=1792137831"></script>
-<script src="js/blocks.js?v=1792137831"></script>
-<script src="js/recipes.js?v=1792137831"></script>
-<script src="js/textures.js?v=1792137831"></script>
-<script src="js/world.js?v=1792137831"></script>
-<script src="js/wonders.js?v=1792137831"></script>
-<script src="js/mesher.js?v=1792137831"></script>
-<script src="js/player.js?v=1792137831"></script>
-<script src="js/animals.js?v=1792137831"></script>
-<script src="js/npcs.js?v=1792137831"></script>
-<script src="js/boats.js?v=1792137831"></script>
-<script src="js/sim.js?v=1792137831"></script>
-<script src="js/pests.js?v=1792137831"></script>
-<script src="js/ui.js?v=1792137831"></script>
-<script src="js/main.js?v=1792137831"></script>
+<script src="js/util.js?v=1792138737"></script>
+<script src="js/config.js?v=1792138737"></script>
+<script src="js/net.js?v=1792138737"></script>
+<script src="js/data/soils.js?v=1792138737"></script>
+<script src="js/data/biomes.js?v=1792138737"></script>
+<script src="js/data/plants.js?v=1792138737"></script>
+<script src="js/data/trees.js?v=1792138737"></script>
+<script src="js/data/animals.js?v=1792138737"></script>
+<script src="js/data/quests.js?v=1792138737"></script>
+<script src="js/data/insects.js?v=1792138737"></script>
+<script src="js/data/ingredients.js?v=1792138737"></script>
+<script src="js/data/fish.js?v=1792138737"></script>
+<script src="js/data/npcs.js?v=1792138737"></script>
+<script src="js/data/characters.js?v=1792138737"></script>
+<script src="js/blocks.js?v=1792138737"></script>
+<script src="js/recipes.js?v=1792138737"></script>
+<script src="js/textures.js?v=1792138737"></script>
+<script src="js/world.js?v=1792138737"></script>
+<script src="js/wonders.js?v=1792138737"></script>
+<script src="js/mesher.js?v=1792138737"></script>
+<script src="js/player.js?v=1792138737"></script>
+<script src="js/animals.js?v=1792138737"></script>
+<script src="js/npcs.js?v=1792138737"></script>
+<script src="js/boats.js?v=1792138737"></script>
+<script src="js/sim.js?v=1792138737"></script>
+<script src="js/pests.js?v=1792138737"></script>
+<script src="js/ui.js?v=1792138737"></script>
+<script src="js/main.js?v=1792138737"></script>
 </body>
 </html>

diff --git a/js/data/quests.js b/js/data/quests.js
@@ -122,6 +122,11 @@ BC.QUESTS = [
     check: s => s.biomesVisited.size / 6, points: 40,
     quiz: { q: 'Which biome has the richest soil?', options: ['Temperate grassland (prairie)', 'Tropical rainforest', 'Desert', 'Boreal forest'], answer: 0,
       explain: 'Surprising but true. Deep grass roots build thick black mollisols. Rainforest nutrients sit in the living plants, not the soil, which is thin and leached.' } },
+  { id: 'circumnavigate', title: 'Around the World', goal: 'Sail or swim out past the edge of the map. The ocean wraps around: keep going and you arrive on the far side of the world.',
+    lesson: 'Oceans divide land but connect life. A coconut can float for months and still sprout on a beach a thousand miles away, which is how coconut palms ring every tropical shore. Seeds also travel in bird guts, on driftwood rafts and in the ballast of ships; Darwin soaked seeds in salt water for weeks to prove it.',
+    check: s => Math.min(1, (s.wrapped || 0) / 1), points: 25,
+    quiz: { q: 'How did coconut palms reach almost every tropical island long before people sailed there?', options: ['The fruit floats in seawater for months and sprouts when it washes ashore', 'Birds carried the nuts', 'The wind blew the seeds', 'They evolved separately on each island'], answer: 0,
+      explain: 'A coconut is a buoyant, salt-proof seed packed with its own fresh water and food. Ocean currents did the planting. The same trick, on a smaller scale, spreads mangroves, sea beans and morning glories along coasts around the world.' } },
   { id: 'orchard', title: 'The Orchard', goal: 'Shake or snip the leaves of fruit trees and pick 4 different kinds of fruit, then plant a fruit tree seed of your own. Villages keep a small orchard just outside the fence; lone wild fruit trees grow across every region.',
     lesson: 'An orchard is the slowest garden: a tree planted today fruits in three to eight years and then for a lifetime. Fruit trees need a pollinator partner, winter chill or summer heat depending on the kind, and pruning that lets light into the middle.',
     check: s => Math.min(1, ((s.fruitSpecies ? s.fruitSpecies.size : 0) / 4) * 0.8 + (Array.from(s.seedSpecies || []).some(id => id.startsWith('tree:') && BC.TREE_BY_ID[id.slice(5)] && BC.TREE_BY_ID[id.slice(5)].fruit) ? 0.2 : 0)), points: 25,

diff --git a/js/textures.js b/js/textures.js
@@ -238,6 +238,7 @@ BC.Atlas = (function () {
     BC.PLANTS.forEach(p => { for (let s = 0; s < 3; s++) add(p.id + '_' + s, g => drawPlant(g, p, s, TILE), true); });
     const saps = [['sapling_broad', { id: 'sb', form: 'sapling', art: { leaf: '#4f8a32' } }], ['sapling_conifer', { id: 'sc', form: 'sapling_conifer', art: { leaf: '#2e5a3a' } }], ['sapling_cactus', { id: 'sx', form: 'sapling_cactus', art: { leaf: '#5a8a4a' } }]];
     saps.forEach(([n, p]) => { for (let s = 0; s < 3; s++) add(n + '_' + s, g => drawPlant(g, p, s, TILE), true); });
+    add('tuft', g => { clear(g); g.lineCap = 'round'; const r = rng(314); for (let i = 0; i < 11; i++) { const x0 = 11 + r() * 10, lean = (r() - 0.5) * 14, len = 14 + r() * 14, w = 1.1 + r() * 0.9; const k = 0.8 + r() * 0.5; g.strokeStyle = shade('#5ca238', k); g.lineWidth = w; g.beginPath(); g.moveTo(x0, 32); g.quadraticCurveTo(x0 + lean * 0.3, 32 - len * 0.6, x0 + lean, 32 - len); g.stroke(); g.strokeStyle = shade('#5ca238', k * 1.3); g.lineWidth = w * 0.4; g.beginPath(); g.moveTo(x0 + lean * 0.5, 32 - len * 0.75); g.lineTo(x0 + lean, 32 - len); g.stroke(); } }, false);
     add('withered', g => drawPlant(g, { id: 'w', form: 'flower', petals: 5, art: { stem: '#7a6a4a', leaf: '#9a8a6a' } }, 2, TILE, true));
     const tex = new THREE.CanvasTexture(canvas); tex.magFilter = THREE.LinearFilter; tex.minFilter = THREE.LinearMipmapLinearFilter; tex.generateMipmaps = true; tex.anisotropy = 4; tex.colorSpace = THREE.SRGBColorSpace;
     return { texture: tex, canvas };

diff --git a/js/player.js b/js/player.js
@@ -80,7 +80,8 @@ BC.Player = class Player {
     this.onGround = hitGround || (this.vel.y <= 0 && this.collides(this.pos.x, this.pos.y - 0.05, this.pos.z));
     if (!step('x', this.vel.x * dt)) this.vel.x = 0; if (!step('z', this.vel.z * dt)) this.vel.z = 0;
     if (this.pos.y < -5) { const t = w.top(Math.floor(this.pos.x), Math.floor(this.pos.z)); this.pos.y = t + 1.1; this.vel.set(0, 0, 0); }
-    this.pos.x = BC.util.clamp(this.pos.x, 0.5, w.W - 0.5); this.pos.z = BC.util.clamp(this.pos.z, 0.5, w.D - 0.5);
+    // sail or swim past the edge of the map and you come out on the far side: the ocean wraps around the world
+    { let wrapped = false; if (this.pos.x < -1.5) { this.pos.x += w.W + 2; wrapped = true; } else if (this.pos.x > w.W + 1.5) { this.pos.x -= w.W + 2; wrapped = true; } if (this.pos.z < -1.5) { this.pos.z += w.D + 2; wrapped = true; } else if (this.pos.z > w.D + 1.5) { this.pos.z -= w.D + 2; wrapped = true; } if (wrapped) this.game.onWrap(); }
     // camera
     const cam = this.game.camera; cam.position.set(this.pos.x, this.pos.y + this.eye, this.pos.z);
     cam.rotation.set(0, 0, 0, 'YXZ'); cam.rotation.y = this.yaw; cam.rotation.x = this.pitch;

diff --git a/js/boats.js b/js/boats.js
@@ -35,6 +35,7 @@ BC.Boats = class {
       const vx = -Math.sin(b.yaw) * b.speed + cx, vz = -Math.cos(b.yaw) * b.speed + cz;
       const nx = b.x + vx * dt, nz = b.z + vz * dt;
       if (this.canFloat(nx, b.z)) b.x = nx; else b.speed *= 0.3; if (this.canFloat(b.x, nz)) b.z = nz; else b.speed *= 0.3;
+      { let wrapped = false; if (b.x < -1.5) { b.x += w.W + 2; wrapped = true; } else if (b.x > w.W + 1.5) { b.x -= w.W + 2; wrapped = true; } if (b.z < -1.5) { b.z += w.D + 2; wrapped = true; } else if (b.z > w.D + 1.5) { b.z -= w.D + 2; wrapped = true; } if (wrapped && b.rider === 'me') g.onWrap(); }
       const ys = w.waterSurface(Math.floor(b.x), Math.floor(b.z)); if (ys >= 0) b.y += ((ys + 0.75 + Math.sin(b.bob * 2) * 0.03) - b.y) * Math.min(1, dt * 6);
       b.mesh.position.set(b.x, b.y, b.z); b.mesh.rotation.y = b.yaw; b.mesh.rotation.z = Math.sin(b.bob * 1.7) * 0.03;
       if (b.rider === 'me') { p.pos.set(b.x, b.y + 0.2, b.z); p.vel.set(0, 0, 0); }

diff --git a/js/world.js b/js/world.js
@@ -18,7 +18,8 @@ BC.World = class World {
   }
   idx(x, y, z) { return x + this.W * (z + this.D * y); }
   inBounds(x, y, z) { return x >= 0 && z >= 0 && y >= 0 && x < this.W && z < this.D && y < this.H; }
-  get(x, y, z) { if (!this.inBounds(x, y, z)) return y < 0 ? 14 : 0; return this.blocks[this.idx(x, y, z)]; }
+  // beyond the map edge lies open ocean: water up to the water line, bedrock below, air above
+  get(x, y, z) { if (!this.inBounds(x, y, z)) return y < 0 ? 14 : (y <= this.WL && y < this.H ? 15 : 0); return this.blocks[this.idx(x, y, z)]; }
   set(x, y, z, id, silent) {
     if (!this.inBounds(x, y, z)) return;
     const i = this.idx(x, y, z); if (this.blocks[i] === id) return;

diff --git a/README.md b/README.md
@@ -1,6 +1,6 @@
-# Botany Craft
+# Botany World
 
-![Botany Craft](assets/botany-craft-hero.jpg)
+![Botany World](assets/botany-world-hero.jpg)
 
 A block-world game that teaches botany. Explore six real Earth biomes laid out on a climate map (cold north, hot south, dry west, wet east), dig into the soil to read its horizons, gather seeds from wild plants, and grow them where they belong. Everything you meet goes into a Field Journal, and 17 quests with quiz questions walk you through the science.
 
